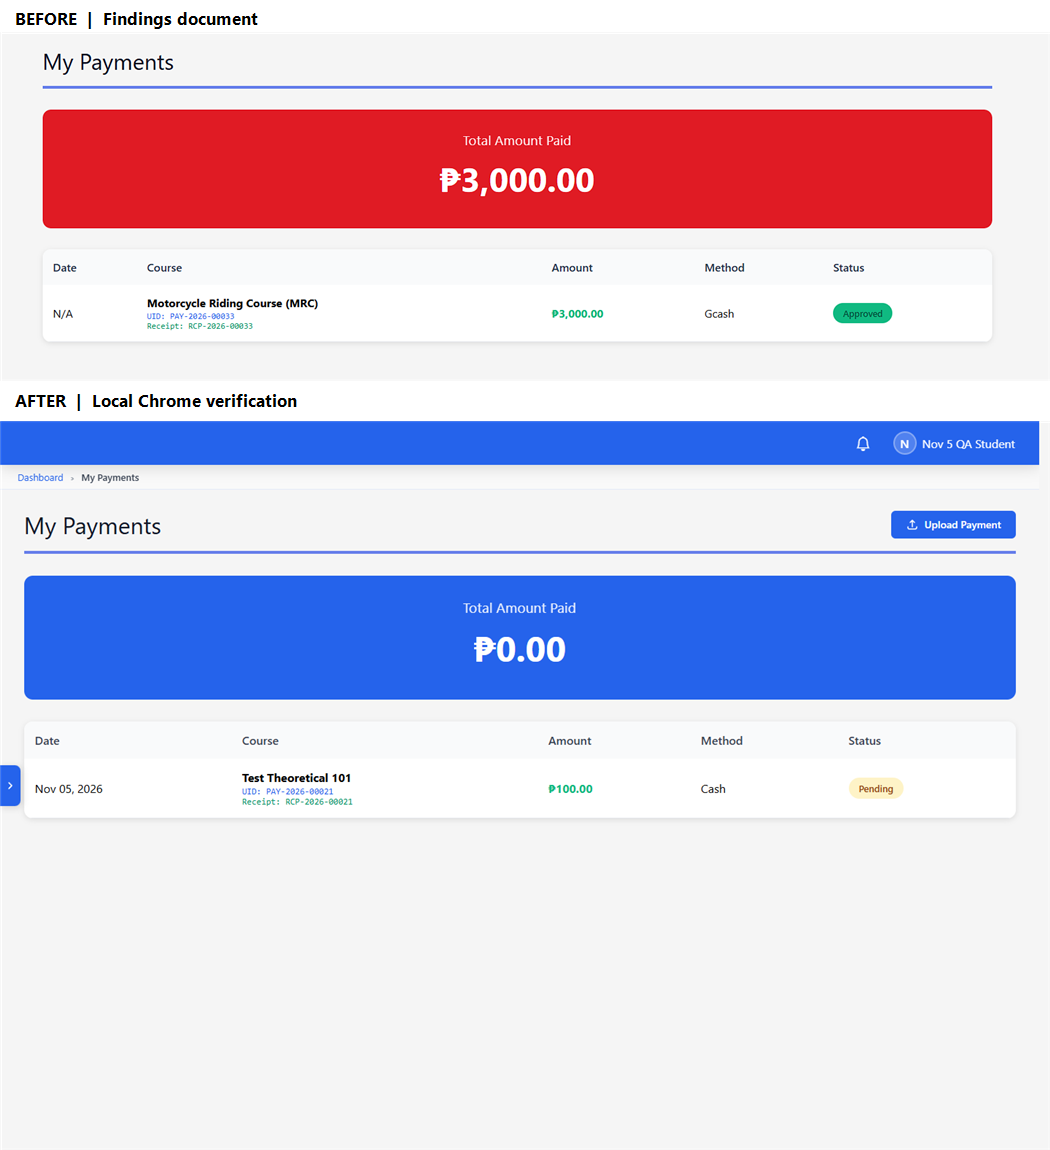
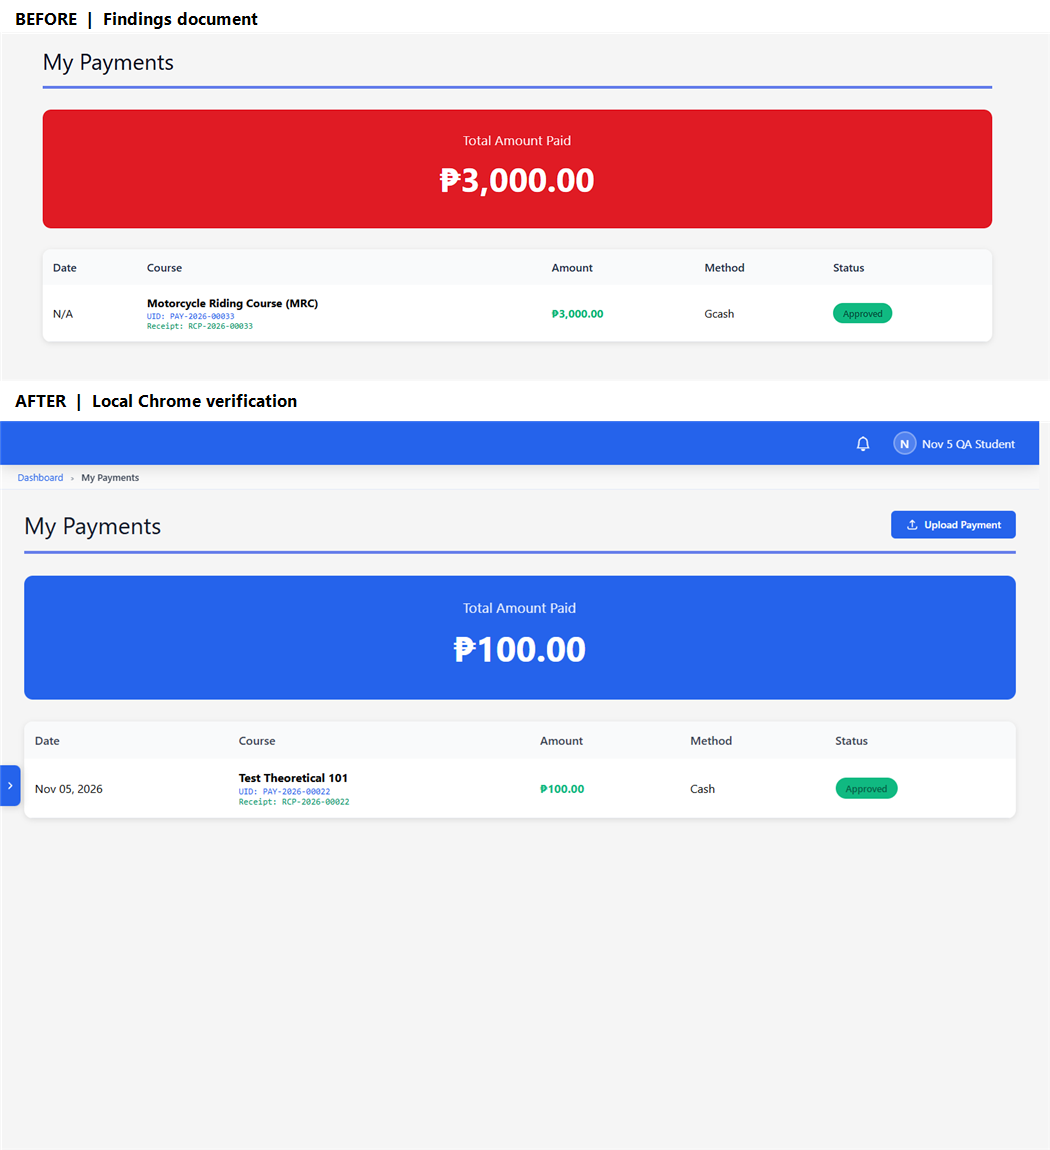
Show approved payment total in November 5 comparison

diff --git a/README.md b/README.md
@@ -28,9 +28,9 @@ Enrolled Course shows the selected package's required hours. The after screensho
 
 ### My Payments date
 
-My Payments shows a date when the payment record has a received, paid, or creation timestamp.
+The after screenshot shows an approved ₱100.00 test payment with a populated date and a ₱100.00 Total Amount Paid.
 
-![Before and after showing a date in the payment history](docs/screenshots/nov5-findings/compare-payment.png)
+![Before and after showing the payment date and approved ₱100.00 total](docs/screenshots/nov5-findings/compare-payment.png)
 
 ### TDC batch scheduling
 
